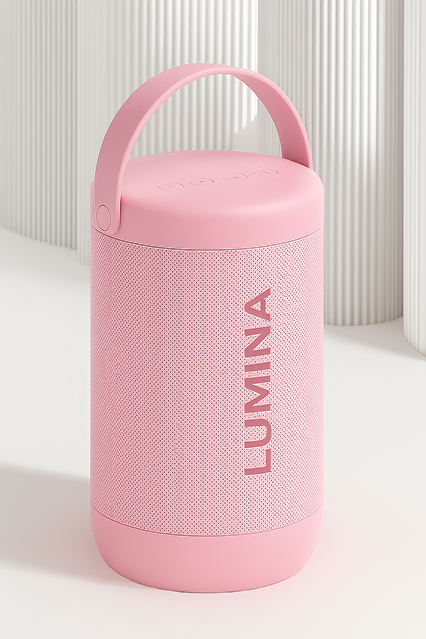
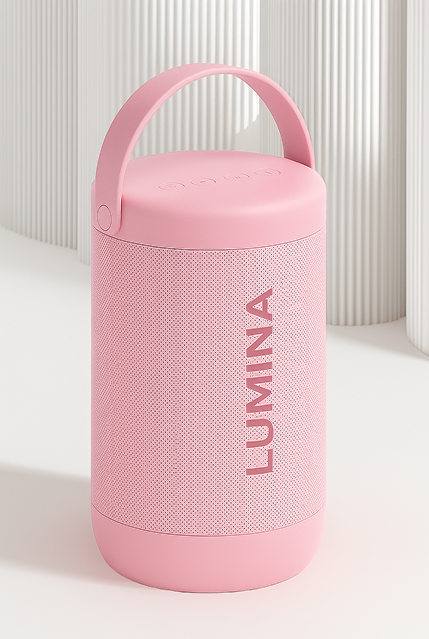
update på lidt forskellige ting

Changed region(s): [[0.3967, 0.3865, 0.6103, 0.8326]]

diff --git a/css/css.css b/css/css.css
@@ -226,26 +226,35 @@ main {
 /*------Funktioner sektion------*/
 .funktionerContainer {
   width: 100%;
+  height: 100%;
   display: flex;
+  flex-direction: row;
   align-items: start;
-  gap: 32px;
-  background-color: var(--farve_4);
-}
-.højtalerFarve {
-  background-color: var(--farve_6);
+  justify-content: center center;
+  gap: 80px;
 }
 
 .højtalerFarve img {
-  width: 400px;
-  height: 600px;
-  object-fit: cover;
+  height: 100%;
+  width: auto;
 }
 
 .informationer {
   display: flex;
   flex-direction: column;
-  background-color: var(--farve_3);
+
   width: 100%;
+  gap: 8px;
+  padding-top: 5%;
+}
+
+.farveIndhold {
+  display: flex;
+  flex-direction: column;
+  gap: 0px;
+  align-items: flex-start;
+
+  padding: 16px;
 }
 
 .farver {
@@ -255,10 +264,10 @@ main {
 }
 
 .dots {
-  margin-top: 2em;
-  width: 30px;
-  height: 30px;
+  width: 40px;
+  height: 40px;
   border-color: #0000009b;
+  cursor: pointer;
 }
 
 .moonlightWhite {
@@ -326,6 +335,7 @@ footer {
   padding: 40px 60px;
   min-height: 30vh;
   font-family: var(--brødtekst-font);
+  width: 100%;
 }
 
 footer table {
@@ -358,7 +368,17 @@ footer p:hover {
     font-size: 48px;
   }
 
+  h2 {
+    font-size: 32px;
+  }
+
   .højdepunkter {
+    flex-direction: column;
+    align-items: center;
+    gap: 32px;
+  }
+
+  .funktionerContainer {
     flex-direction: column;
     align-items: center;
     gap: 32px;
@@ -375,7 +395,17 @@ footer p:hover {
     font-size: 56px;
   }
 
+  h2 {
+    font-size: 40px;
+  }
+
   .højdepunkter {
+    flex-direction: column;
+    align-items: center;
+    gap: 40px;
+  }
+
+  .funktionerContainer {
     flex-direction: column;
     align-items: center;
     gap: 40px;

diff --git a/index.html b/index.html
@@ -119,21 +119,22 @@
 
         <div class="funktionerContainer">
             <div class="højtalerFarve">
-                <img src="img/moonlightWhite.png" alt="Hvid højtaler" />
+                <img src="img/moonlightWhite.png" alt="Hvid højtaler"/>
             </div>
 
             <div class="informationer">
                 
-                <div><h3>Farver</h3>
-                <div class="farver">
+                <div class="farveIndhold">
+                    <h3>Farver</h3>
+                    <div class="farver">
                     <button class="dots moonlightWhite" value="moonlightWhite"></button>
                     <button class="dots popPink" value="popPink"></button>
                     <button class="dots lavenderViolet" value="lavenderViolet"></button>
                     <button class="dots sageGreen" value="sageGreen"></button>
-                </div>
+                    </div>
                 </div>
 
-
+                <div>
                 <button class="accordion">
                     <h3>Design</h3>
                     <img src="img/pil.svg" alt="pil" class="pil" />
@@ -167,7 +168,8 @@
                     <p>- Bluetooth 5.3<br>- AUX-indgang<br>- Mulighed for at parre op til 3 andre LUMINA One enheder med Lumina Audio mobil appen.</p>
                 </div>
 
-        
+                </div>
+
             </div>
         </div>
       </section>
@@ -175,6 +177,17 @@
       <h2>Specifikationer</h2>
 
       <!---------- Anmeldelser sektion ------------>
+
+      
+
+
+
+
+
+
+
+
+
       <!---------- FAQ sektion ------------>
       <section>
         <h2>Ofte stillede spørgsmål</h2>
